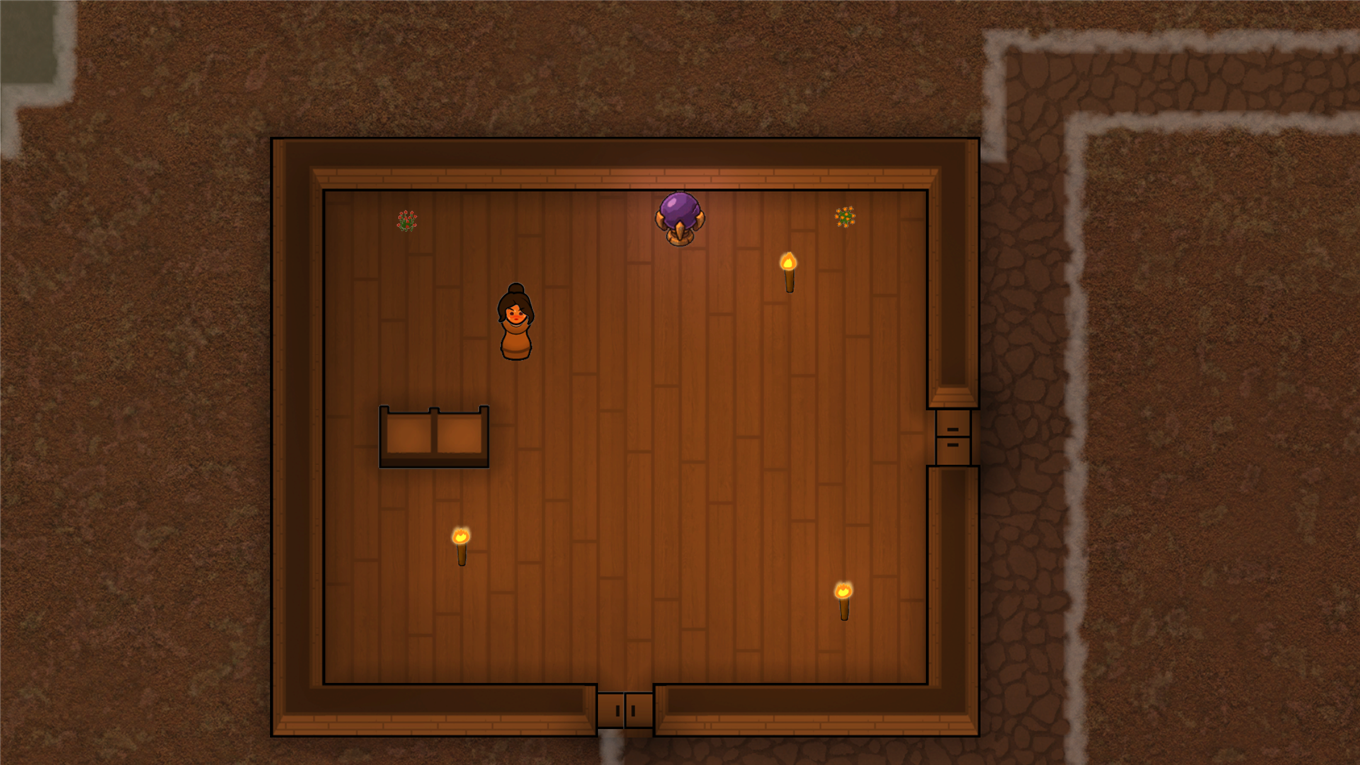
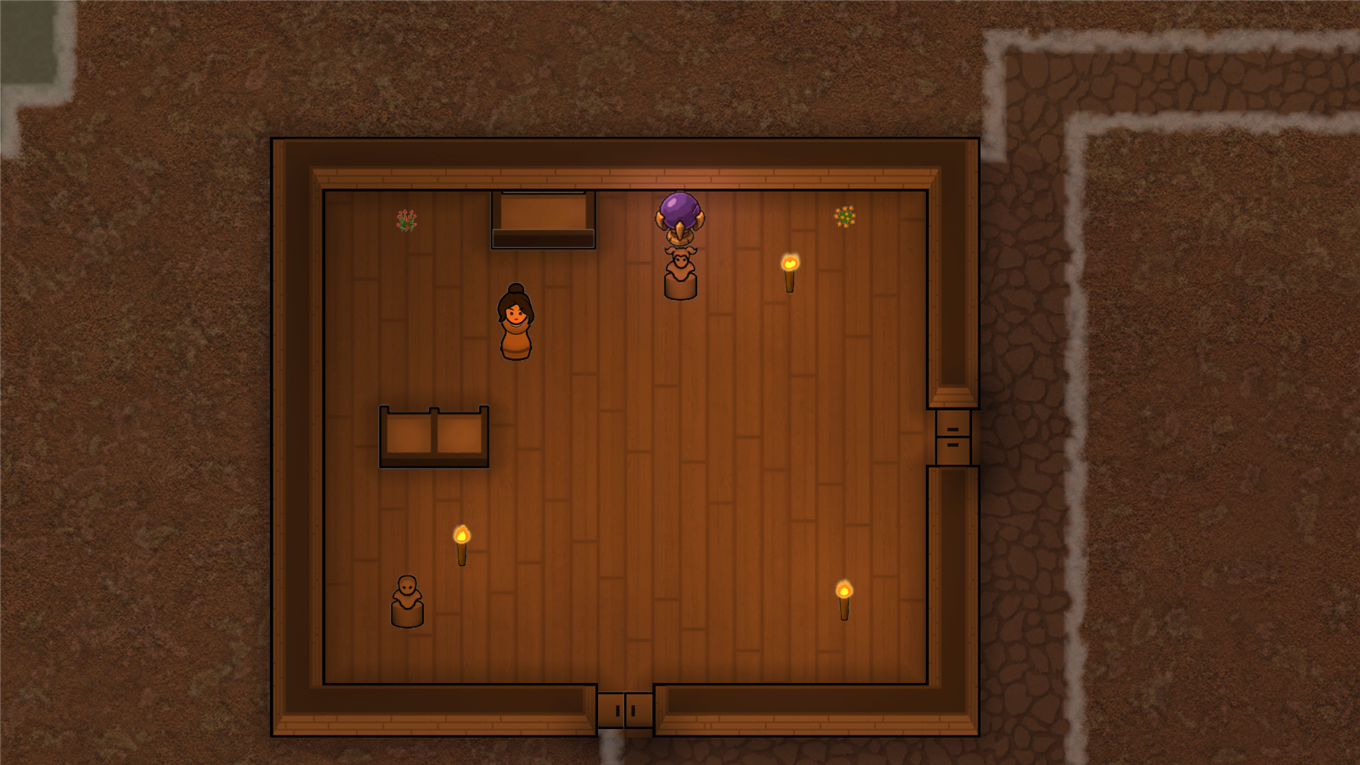
Gallery candidates from run 8d29: 20 degrees, more set, south cell blocked

diff --git a/STATUS.md b/STATUS.md
@@ -138,3 +138,6 @@ Stage stays `published`: `1.0.0` is unchanged on Steam. Commit `5c0b282` replace
 
 **Gallery candidates, 2026-10-08.** Run `bd3e` (`Tests/Pickle/Evidence/2026-10-08-hut-gallery-venus-2`, Backlot map with Venus, EyeGenes and face kit; 3 of 3) was opened: Nelim sits east of the ball in picture 3, profile visible; the three pictures are in `Art/Gallery/` as `<n>-candidate-<name>.png` (1.9 to 2.0 MB each, 6.4 MB in all) and wait for Virginie's qualification. Review findings: README and map header fixed; the Daylily cell is kept (scenario 3 stood there and passed), `no_change_needed`.
 
+
+**Gallery candidates replaced, 2026-10-08.** Run `8d29` (`Tests/Pickle/Evidence/2026-10-08-hut-gallery-venus-4`, map held at 20 degrees, expression `normal` before the shot, bookcase and two small sculptures added, one blocking the cell south of the ball) was opened: face less flushed, Nelim in profile beside the ball in picture 3. The candidates in `Art/Gallery/` are these; Virginie still qualifies.
+
